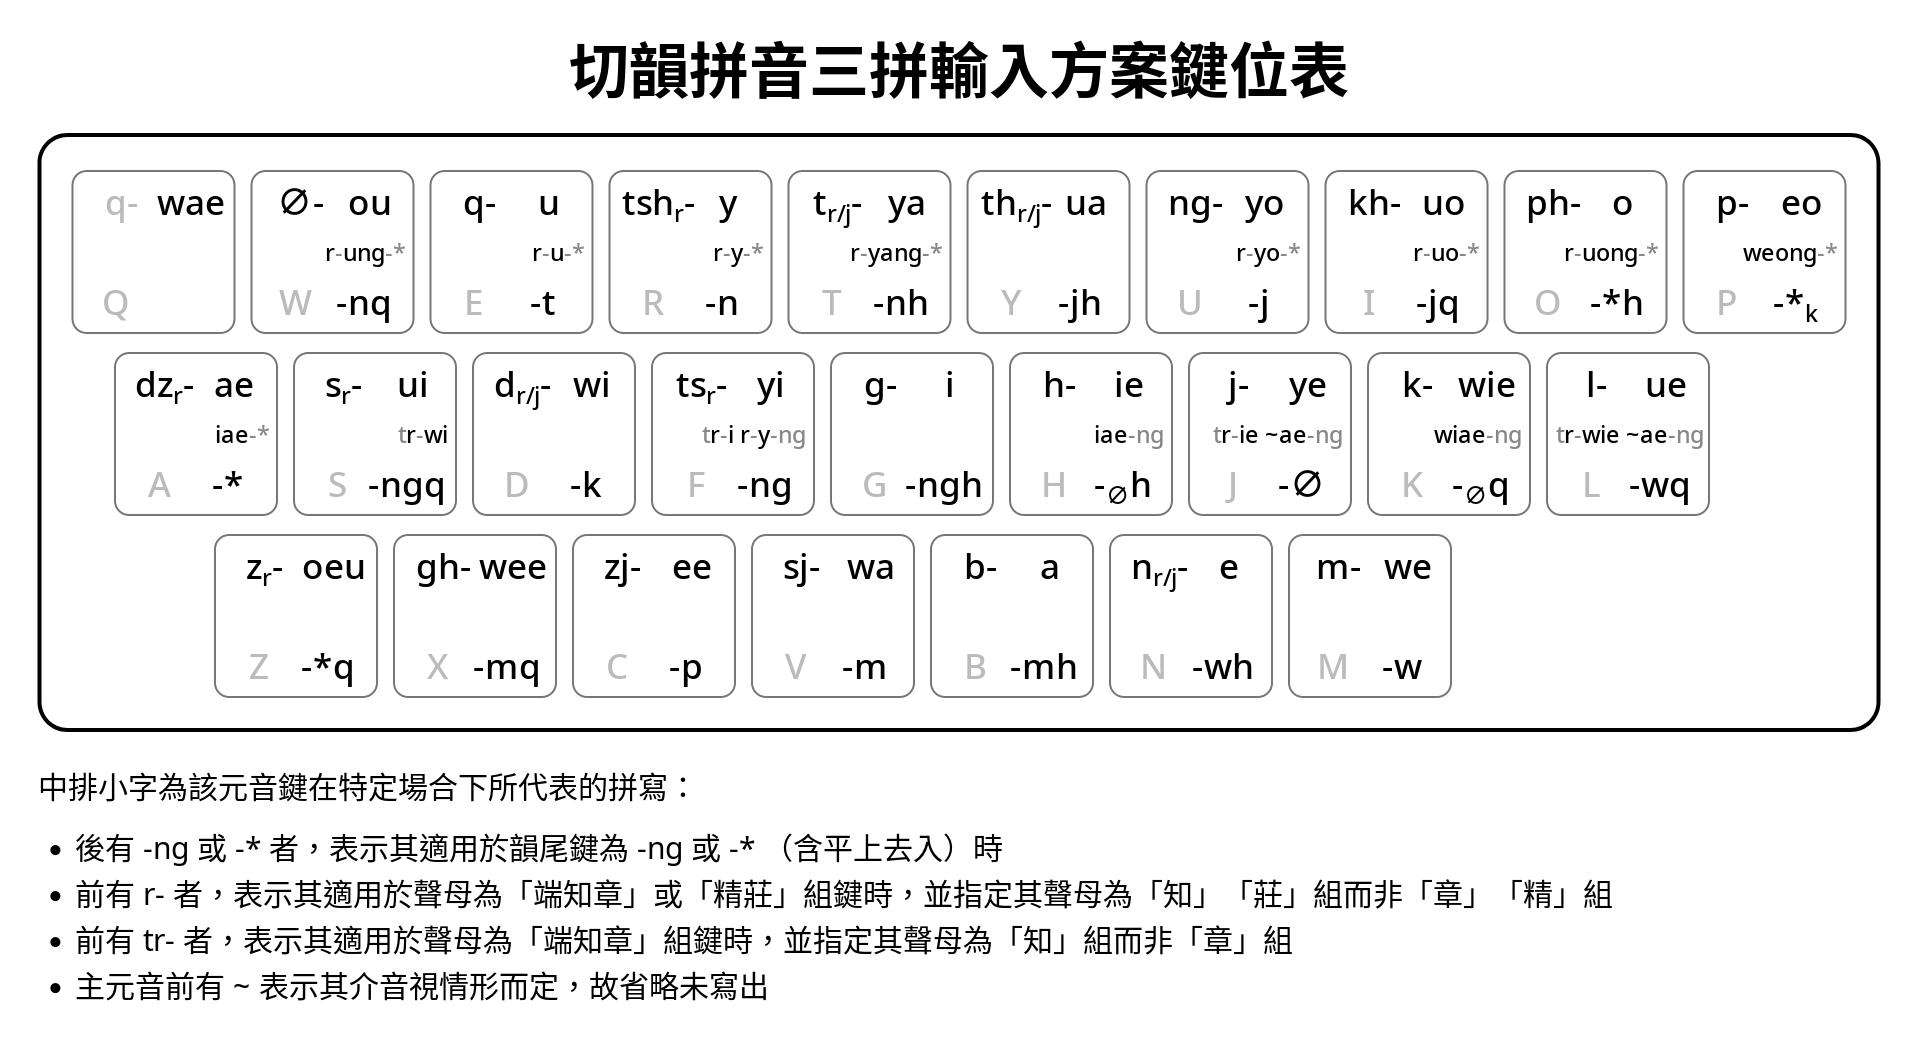
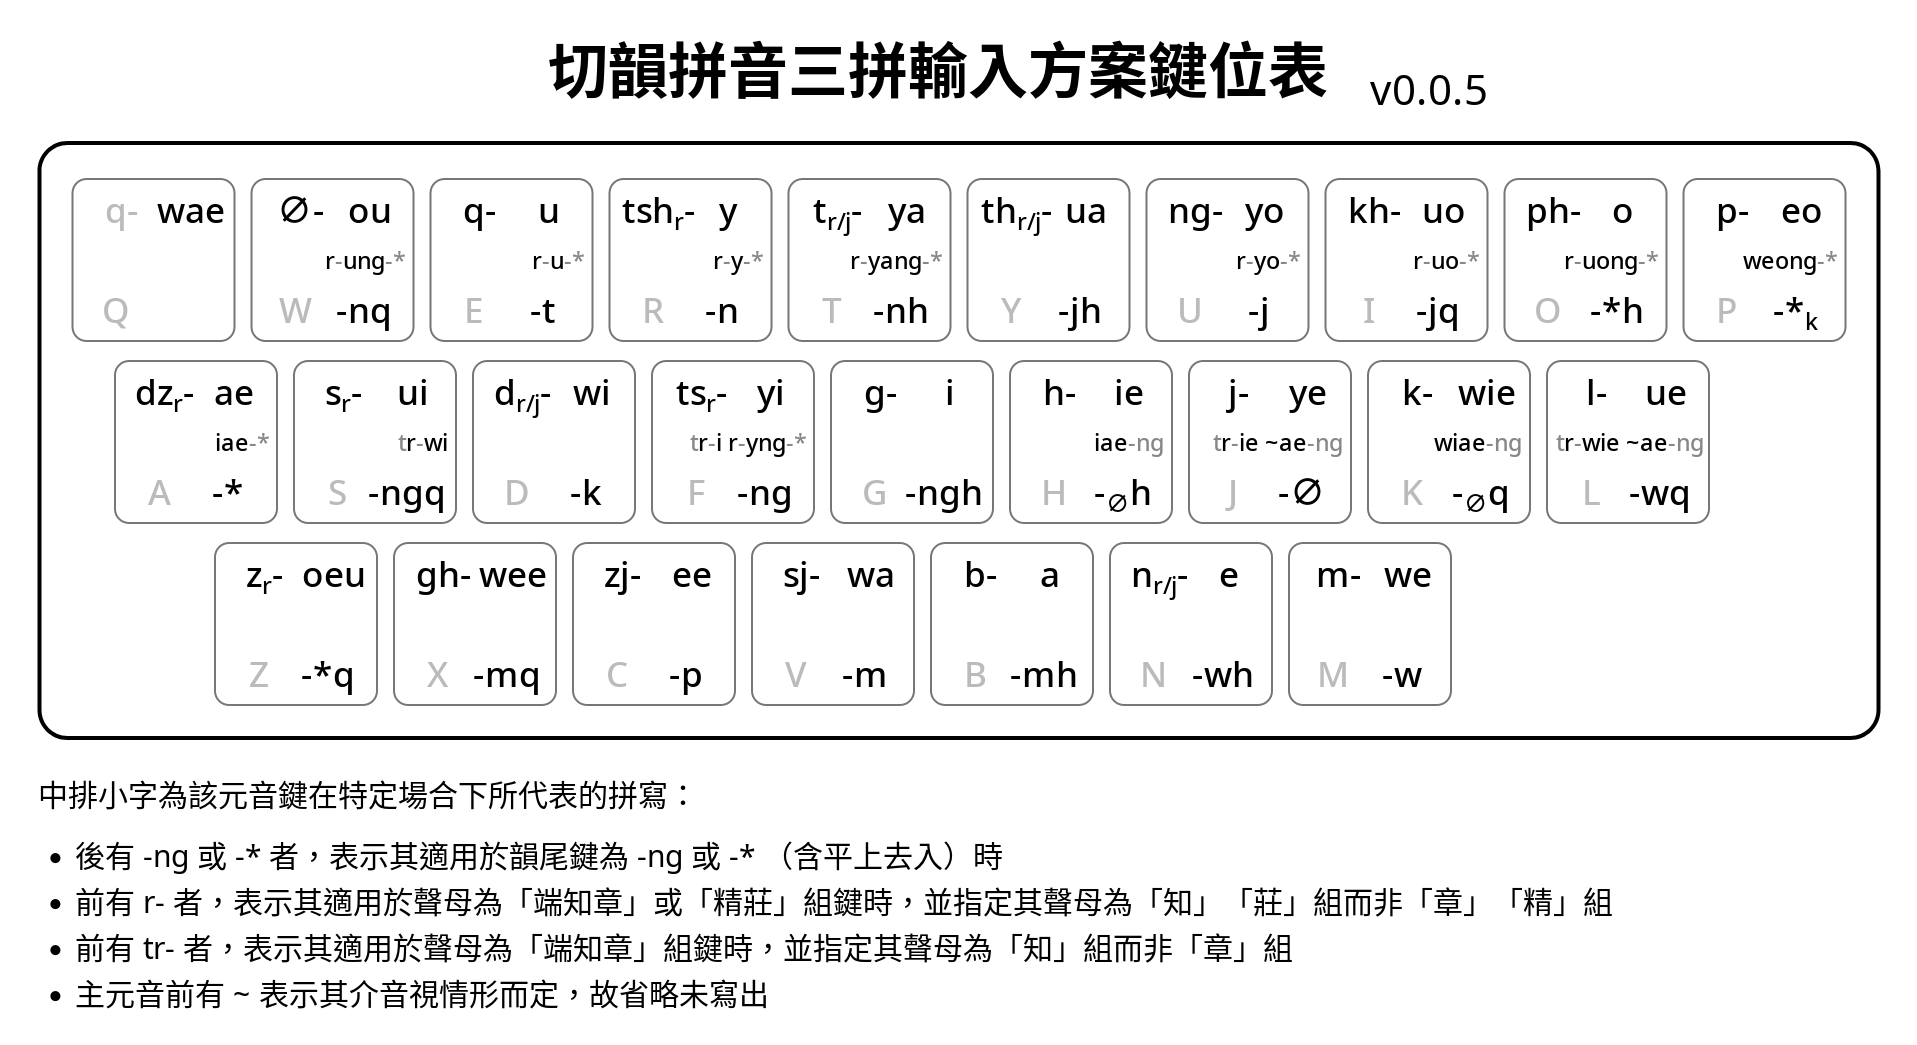
Change code for (r)yng: r-yi-ng -> r-yi-*
Version 0.0.5

Adding this seemingly "irregular" rule actually makes this rhyme more
consistent with other rules dealing with R-initials, thus easier to
remember especially for beginners.

diff --git a/README.md b/README.md
@@ -84,16 +84,16 @@ Z    X C V B       N M
 
 26 鍵
 
-| 三A<br />章、精         | 三B或知組<br />知、莊            | 三C<br />章、精          | 一四等<br />端、精      | 二等<br />知（端併入）、莊 |
-| ----------------------- | -------------------------------- | ------------------------ | ----------------------- | -------------------------- |
-|                         |                                  | ya<br />接 -*: 知莊-yang | a                       | ae<br />接 -*: 麻三 iae    |
-|                         |                                  | ua                       | wa                      | wae                        |
-| ie<br />接 -ng: iaeng   | ye (知-ie)<br />接 -ng: yaeng    |                          | e                       | ee                         |
-| wie<br />接 -ng: wiaeng | ue (知-wie)<br />接 -ng: uaeng   |                          | we                      | wee                        |
-|                         |                                  | yo<br />接 -*: 知莊-yo   | eo<br />接 -*: weong    | oeu                        |
-|                         |                                  | uo<br />接 -*: 知莊-uo   | o<br />接 -*: 知莊-uong |                            |
-| i                       | yi (知-i)<br />拼知莊接 -ng: yng | y<br />接 -*: 知莊-y     |                         |                            |
-| wi                      | ui (知-wi)                       | u<br />接 -*: 知莊-u     | ou<br />接 -*: 知莊-ung |                            |
+| 三A<br />章、精         | 三B或知組<br />知、莊          | 三C<br />章、精          | 一四等<br />端、精      | 二等<br />知（端併入）、莊 |
+| ----------------------- | ------------------------------ | ------------------------ | ----------------------- | -------------------------- |
+|                         |                                | ya<br />接 -*: 知莊-yang | a                       | ae<br />接 -*: 麻三 iae    |
+|                         |                                | ua                       | wa                      | wae                        |
+| ie<br />接 -ng: iaeng   | ye (知-ie)<br />接 -ng: yaeng  |                          | e                       | ee                         |
+| wie<br />接 -ng: wiaeng | ue (知-wie)<br />接 -ng: uaeng |                          | we                      | wee                        |
+|                         |                                | yo<br />接 -*: 知莊-yo   | eo<br />接 -*: weong    | oeu                        |
+|                         |                                | uo<br />接 -*: 知莊-uo   | o<br />接 -*: 知莊-uong |                            |
+| i                       | yi (知-i)<br />接 -*: 知莊-yng | y<br />接 -*: 知莊-y     |                         |                            |
+| wi                      | ui (知-wi)                     | u<br />接 -*: 知莊-u     | ou<br />接 -*: 知莊-ung |                            |
 
 - 「端知章」「精莊」鍵，拼三AC兩欄時默認為章、精，拼三B一欄時默認為知、莊，但通過「-*」韻尾鍵可改變搭配
 
@@ -104,6 +104,7 @@ Z    X C V B       N M
    - ya 後接 -* 為 -ng 尾，並改拼知莊組
 2. 調整等第及聲母搭配
    - 通攝 ung、uong 欲拼知莊組，用對應的一等元音 ou、o 接 -* 尾
+   - 蒸韻 yng 欲拼知莊組，用對應的B類元音 yi 接 -* 尾
 3. 調整介音：
    - 麻三 iae 為 ae 接 -* 尾
    - 登合 weong 為 eo 接 -* 尾
@@ -114,8 +115,12 @@ Z    X C V B       N M
 <b>「-*」尾用法不用一上來就全記住！</b>只需要以下三條處理原則就可以<b>立即開始打字</b>，並在實際使用中漸漸掌握用法：
 
 1. __章精變知莊__：想打「知」「莊」組聲母卻打出「章」「精」組，說明此處很可能就是「-\*」尾派上用場的時候！直接換用「-\*」韻尾鍵試試吧！
-2. __不夠則元音用一等__：打 -ng 尾三等字，照着上一條做，卻打出了不帶韻尾的字，說明除了韻尾鍵用「-*」外，還需要換用對應的一等元音鍵：u 換用 ou 鍵、uo 換用 o 鍵（這兩對元音鍵都是相隣的哦）就可以了！
-3. __兩個韻母直接記__：最後就只剩下麻三 iae 用 ae-\*，以及登合 weong 用 eo-\* 這兩個特別組合了，請直接記住就好。
+   - 例：初學三拼時想試着打「張」tryang，敲 t-ya-ng (<kbd>T</kbd>-<kbd>T</kbd>-<kbd>F</kbd>) 發現打出的是「章」tjyang，改打 t-ya-* (<kbd>T</kbd>-<kbd>T</kbd>-<kbd>A</kbd>) 就能成功打出「張」
+   - 例二：想打「使」sryq，敲 s-y-q (<kbd>S</kbd>-<kbd>R</kbd>-<kbd>K</kbd>) 發現打出的是「萆」syq，改打 s-y-*q (<kbd>S</kbd>-<kbd>R</kbd>-<kbd>Z</kbd>) 就能成功打出「使」
+2. __-ng 尾可能換元音__：打 -ng 尾三等字，照着上一條做，卻打出了不帶韻尾的字，說明除了韻尾鍵用「-*」外，還需要換用與其最接近的相鄰元音鍵（鍵盤上也是相鄰的）：ung 用 ou 鍵、uong 用 o 鍵、yng 用 yi 鍵就可以了！
+   - 例：初學三拼想打「中」trung，敲 t-u-ng (<kbd>T</kbd>-<kbd>E</kbd>-<kbd>F</kbd>) 發現打出的是「終」tjung，改打 t-u-* (<kbd>T</kbd>-<kbd>E</kbd>-<kbd>A</kbd>) 發現打出的是「啁」tru 沒有 -ng 尾，那麼再改 t-ou-* (<kbd>T</kbd>-<kbd>W</kbd>-<kbd>A</kbd>) 就能成功打出「中」
+   - 例二：想打「僜」trhyng，敲 th-y-ng (<kbd>Y</kbd>-<kbd>R</kbd>-<kbd>F</kbd>) 發現打出的是「稱」tjhyng，改打 th-y-* (<kbd>Y</kbd>-<kbd>R</kbd>-<kbd>A</kbd>) 發現打出的是「癡」trhy 沒有 -ng 尾，那麼再改 th-yi-* (<kbd>Y</kbd>-<kbd>F</kbd>-<kbd>A</kbd>) 能成功打出「僜」
+3. __最後兩韻直接記__：最後就只剩下麻三 iae 用 ae-\*，以及登合 weong 用 eo-\* 這兩個特別組合了，請直接記住就好。
 
 ### 特殊處理
 
